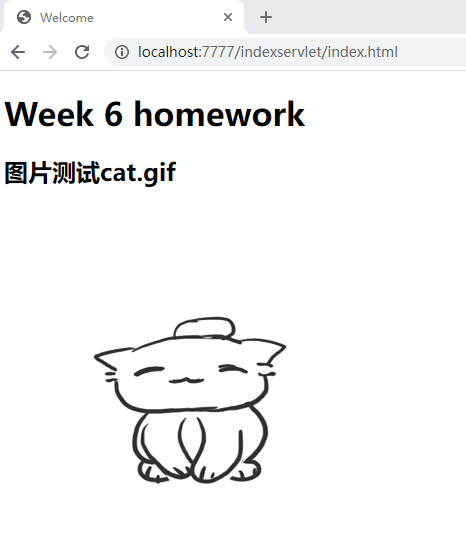
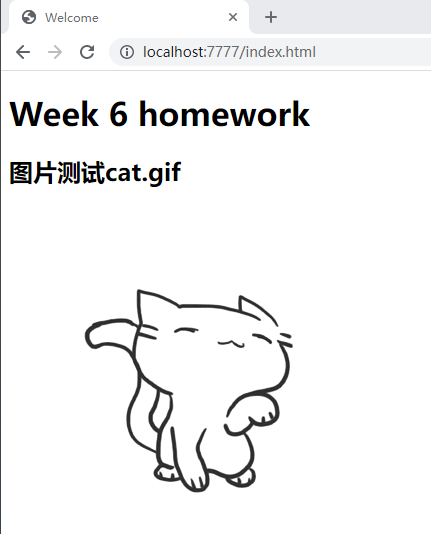
第六周作业

diff --git a/week-06/simple-cat-test/src/main/resources/static/404.html b/week-06/simple-cat-test/src/main/resources/static/404.html
@@ -1,0 +1,12 @@
+<!DOCTYPE html>
+<html lang="en">
+
+<head>
+    <meta charset="UTF-8">
+    <title>Warn</title>
+</head>
+
+<body>
+<h1>未找到指定资源！</h1>
+</body>
+</html>

diff --git a/week-06/simple-cat-test/src/main/resources/static/index.html b/week-06/simple-cat-test/src/main/resources/static/index.html
@@ -9,6 +9,6 @@
 <body>
     <h1>Week 6 homework</h1>
     <h2 href>图片测试cat.gif</h2>
-    <img src="indexservlet/cat.gif">
+    <img src="cat.gif">
 </body>
 </html>

diff --git a/week-06/simple-cat/src/main/java/com/wang/simplecat/SimpleCatHandler.java b/week-06/simple-cat/src/main/java/com/wang/simplecat/SimpleCatHandler.java
@@ -7,6 +7,8 @@ import io.netty.channel.ChannelHandlerContext;
 import io.netty.channel.ChannelInboundHandlerAdapter;
 import io.netty.handler.codec.http.HttpRequest;
 
+import java.util.Arrays;
+import java.util.List;
 import java.util.Map;
 
 /**
@@ -24,6 +26,8 @@ public class SimpleCatHandler extends ChannelInboundHandlerAdapter {
      */
     private Map<String, String> nameToClassNameMap;
     
+    private List<String> STATIC_SUFFIXS = Arrays.asList(".html", ".gif", ".png", ".css", ".js");
+    
     public SimpleCatHandler(Map<String, SimpleServlet> nameToServletMap, Map<String, String> nameToClassNameMap) {
         this.nameToServletMap = nameToServletMap;
         this.nameToClassNameMap = nameToClassNameMap;
@@ -34,11 +38,30 @@ public class SimpleCatHandler extends ChannelInboundHandlerAdapter {
         if (msg instanceof HttpRequest) {
             HttpRequest request = (HttpRequest) msg;
             String uri = request.uri();
+            
             String servletName = "";
-            if (uri.contains("?") && uri.contains("/")) {
+            // 处理静态资源访问问题
+            if (uri.indexOf("/") == uri.lastIndexOf("/") && !uri.contains("?")) {
+                String filaName = uri.substring(uri.lastIndexOf("/") + 1);
+                boolean ifIndex = filaName.equals( "index");
+                if (uri.length() > 1 && !uri.contains(".") && !ifIndex) {
+                    servletName = "";
+                } else {
+                    SimpleResponse res = new HttpSimpleResponse(request, ctx);
+                    if (ifIndex) {
+                        res.writeStatic("static/index.html");
+                    } else {
+                        for (String suffix : STATIC_SUFFIXS) {
+                            if (filaName.contains(suffix)) {
+                                res.writeStatic("static/" + filaName);
+                            }
+                        }
+                    }
+                    ctx.close();
+                    return;
+                }
+            } else if (uri.contains("?") && uri.contains("/")) {
                 servletName = uri.substring(uri.lastIndexOf("/") + 1, uri.indexOf("?"));
-            } else if (uri.contains("indexservlet")) {
-                servletName = "indexservlet";
             }
             
             SimpleServlet servlet = new DefaultSimpleServlet();
@@ -61,7 +84,7 @@ public class SimpleCatHandler extends ChannelInboundHandlerAdapter {
                         }
                     }
                 }
-            } //  end-else if
+            }
             
             // 代码走到这里，servlet肯定不空
             SimpleRequest req = new HttpSimpleRequest(request);

diff --git a/week-06/simple-cat/src/main/java/com/wang/simplecat/HttpSimpleResponse.java b/week-06/simple-cat/src/main/java/com/wang/simplecat/HttpSimpleResponse.java
@@ -7,6 +7,7 @@ import io.netty.channel.ChannelHandlerContext;
 import io.netty.handler.codec.http.*;
 import io.netty.util.internal.StringUtil;
 
+import java.io.File;
 import java.io.FileInputStream;
 
 /**
@@ -60,9 +61,13 @@ public class HttpSimpleResponse implements SimpleResponse {
      */
     @Override
     public void writeStatic(String filePath) throws Exception {
-        FileInputStream fileInputStream = new FileInputStream(StaticResourceUtil.getAbsolutePath(filePath));
-        int lenth = fileInputStream.available();
-        byte[] b = new byte[lenth];
+        File file = new File(StaticResourceUtil.getAbsolutePath(filePath));
+        if (!file.exists()) {
+            file = new File(StaticResourceUtil.getAbsolutePath("static/404.html"));
+        }
+        
+        FileInputStream fileInputStream = new FileInputStream(file);
+        byte[] b = new byte[fileInputStream.available()];
         fileInputStream.read(b);
         fileInputStream.close();
         FullHttpResponse response = new DefaultFullHttpResponse(HttpVersion.HTTP_1_1, HttpResponseStatus.OK, Unpooled.wrappedBuffer(b));

diff --git a/week-06/README.md b/week-06/README.md
@@ -20,7 +20,7 @@ simple-cat 项目为自定义Web容器，simple-cat-test 为测试项目。
 </server>
 ```
 3. 自定义servlet  
-测试项目中共实现了定义三个自定义 servlet : MyServlet 、MyServlet2 、IndexServlet
+测试项目中共实现了定义三个自定义 servlet : MyServlet 、MyServlet2
 
 4. 启动服务 ： 通过 MyApplication.java 启动容器
 ```java
@@ -35,9 +35,11 @@ public class MyApplication {
 ![myservlet](img/myservlet1.png)
 * MyServlet2 : 展示全部参数， 浏览器访问 http://localhost:7777/myservlet?username=admin&pwd=123456 ,结果如下图
 ![myservlet2](img/myservlet2.png)
-* IndexServlet : 展示默认静态文件，浏览器访问 http://localhost:7777/indexservlet ,展示默认 index.html 页面，结果如下图  
+* 访问静态资源 : http://localhost:7777/index ,展示默认 index.html 页面，结果如下图  
 ![index1](img/index1.png)  
-也可指定访问的静态服务文件名， 浏览器访问 http://localhost:7777/indexservlet/index.html ,结果如下图  
+也可指定访问的静态服务文件名， 浏览器访问 http://localhost:7777/index.html ,结果如下图  
 ![index2](img/index2.png)  
-访问默认文件 cat.gif ,浏览器访问 http://localhost:7777/indexservlet/cat.gif  ,结果如下图
-![index3](img/index3.png)
+访问默认文件 cat.gif ,浏览器访问 http://localhost:7777/cat.gif  ,结果如下图
+![index3](img/index3.png)  
+访问不存在的静态资源文件， http://localhost:7777/cat.png ，结果如下图  
+![index4](img/index4.png)  
